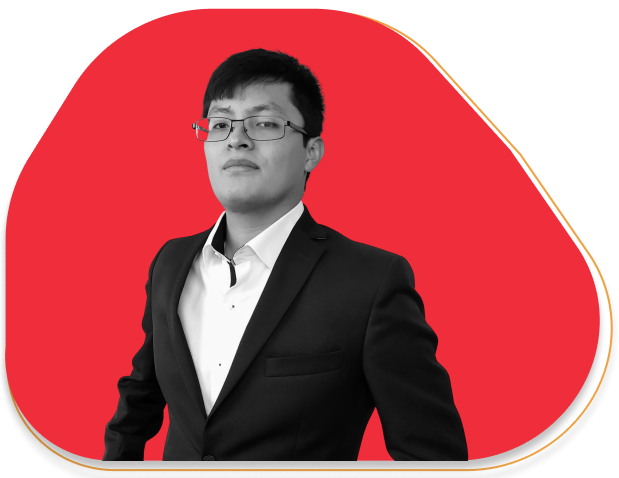
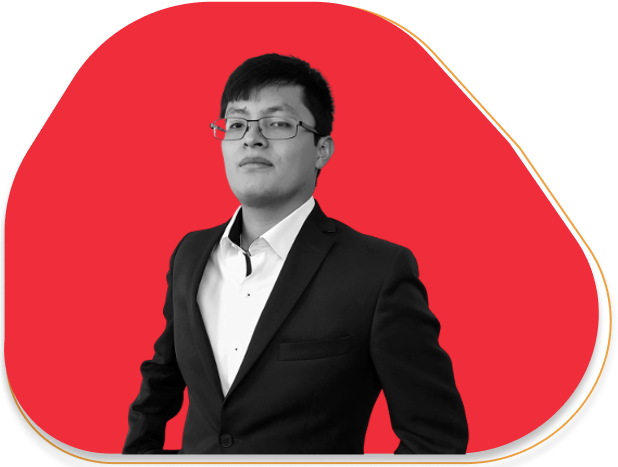
About me completed

diff --git a/src/app/components/projects/projects.component.html b/src/app/components/projects/projects.component.html
@@ -17,9 +17,9 @@
             </h6>
             <hr>
             <div class="mb-4">
-                <a href="" class="btn btn-light technology-btn">
+                <button href="" class="btn btn-light technology-btn">
                     MEAN Stack
-                </a>
+                </button>
             </div>
             <p class="font-content">
                 Ludus is a prototype of a technological educational tool to bring support to primary students in topics that they need help. The main focus of the app were children between 8-12 years old.
@@ -41,9 +41,9 @@
             </h6>
             <hr>
             <div class="mb-4">
-                <a href="" class="btn btn-light technology-btn">
+                <button href="" class="btn btn-light technology-btn">
                     MEAN Stack
-                </a>
+                </button>
             </div>
             <p class="font-content">
                 Prototype of a computer management maintenance system, developed during my professional practices, in which I was in charge of build the Front-End using the framework Angular to give structure to the componentes. I also helped to build and desing the data base.
@@ -65,9 +65,9 @@
             </h6>
             <hr>
             <div class="mb-4">
-                <a href="" class="btn btn-light technology-btn">
+                <button href="" class="btn btn-light technology-btn">
                     Angular
-                </a>
+                </button>
             </div>
             <p class="font-content">
                 It’s a simple web game for two players where you can choose a character from Marvel or DC to fight. The game includes the actions to: attack, recovery and special attack.
@@ -89,12 +89,12 @@
             </h6>
             <hr>
             <div class="mb-4">
-                <a href="" class="btn btn-light technology-btn">
+                <button href="" class="btn btn-light technology-btn mr-to-right">
                     React
-                </a>
-                <a href="" class="btn btn-light technology-btn">
+                </button>
+                <button href="" class="btn btn-light technology-btn">
                     Giphy API
-                </a>
+                </button>
             </div>
             <p class="font-content">
                 Using react hooks and consuming the API of giphy I built an app to let the user search gifs. The app returns a certain amount of results and keep oldest results.

diff --git a/src/app/components/about-me/about-me.component.css b/src/app/components/about-me/about-me.component.css
@@ -1,46 +1,27 @@
-/* #profile-picture-cotainer {
-    background-image: url('/assets/img/profilebackgrond-full.png');
+#profile-picture-cotainer {
+    background-image: url('/assets/img/VictorBolaosSolis-filter-picture.png');
     background-position: center;
     background-repeat: no-repeat;
     background-size: contain;
     position: relative;
-    background: #F02D3A;
-    box-shadow: 0px 4px 4px rgba(0, 0, 0, 0.25);
-    border-radius: 78px;
-    transform: matrix(0.95, 0.28, -0.32, 0.96, 0, 0);
+    height: 30vh;
+    padding-top: 50vh;
+    transition: all 0.3s ease;
 }
 
-#profile-picture {
-}   */
+#profile-picture-cotainer:hover {
+    background-image: url('/assets/img/VictorBolaosSolis-normal-picture.png');
+    transform: scale(1.1);
+}
 
-/* 
-background red
+@media screen and (max-width: 768px) {
+    #profile-picture-cotainer {
+        height: 50vh;
+    }
+}
 
-position: absolute;
-width: 315.74px;
-height: 271.45px;
-left: 990.69px;
-top: 1285px;
-
-background: #F02D3A;
-box-shadow: 0px 4px 4px rgba(0, 0, 0, 0.25);
-border-radius: 78px;
-transform: matrix(0.95, 0.28, -0.32, 0.96, 0, 0) */
-
-
-
-/* border
-
-position: absolute;
-width: 321.95px;
-height: 276.79px;
-left: 992.22px;
-top: 1285px;
-
-/* Yellow 
-
-border: 1px solid #EEA243;
-box-sizing: border-box;
-box-shadow: 0px 4px 4px rgba(0, 0, 0, 0.25);
-border-radius: 78px;
-transform: matrix(0.95, 0.28, -0.32, 0.96, 0, 0); */
+@media screen and (max-width: 1024px) {
+    #profile-picture-cotainer {
+        height: 50vh;
+    }
+}

diff --git a/src/app/components/about-me/about-me.component.html b/src/app/components/about-me/about-me.component.html
@@ -12,8 +12,8 @@
             </p>
         </div>
         <div class="col-lg-3">
-            <div id="profile-picture-cotainer" class="mt-5">
-                <img src="/assets/img/VictorBolaosSolis-filter-picture.png" alt="Víctor Bolaños Solís" class="w-100 mt-5">
+            <div id="profile-picture-cotainer">
+                <!-- <img src="/assets/img/VictorBolaosSolis-filter-picture.png" alt="Víctor Bolaños Solís" class="w-100 mt-5"> -->
             </div>
         </div>
     </div>

diff --git a/src/app/components/projects/projects.component.css b/src/app/components/projects/projects.component.css
@@ -15,3 +15,7 @@
 .img-link {
     height: 1.2rem;
 }
+
+.mr-to-right {
+    margin-right: .8rem;
+}
